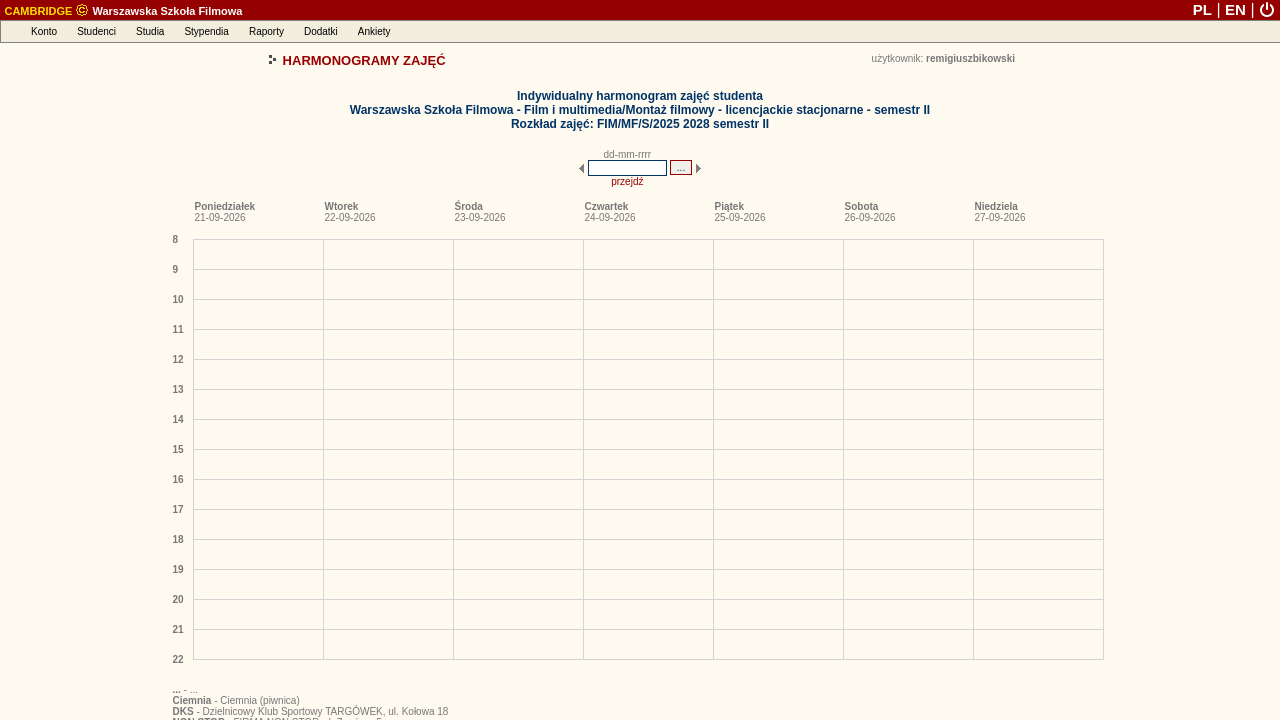
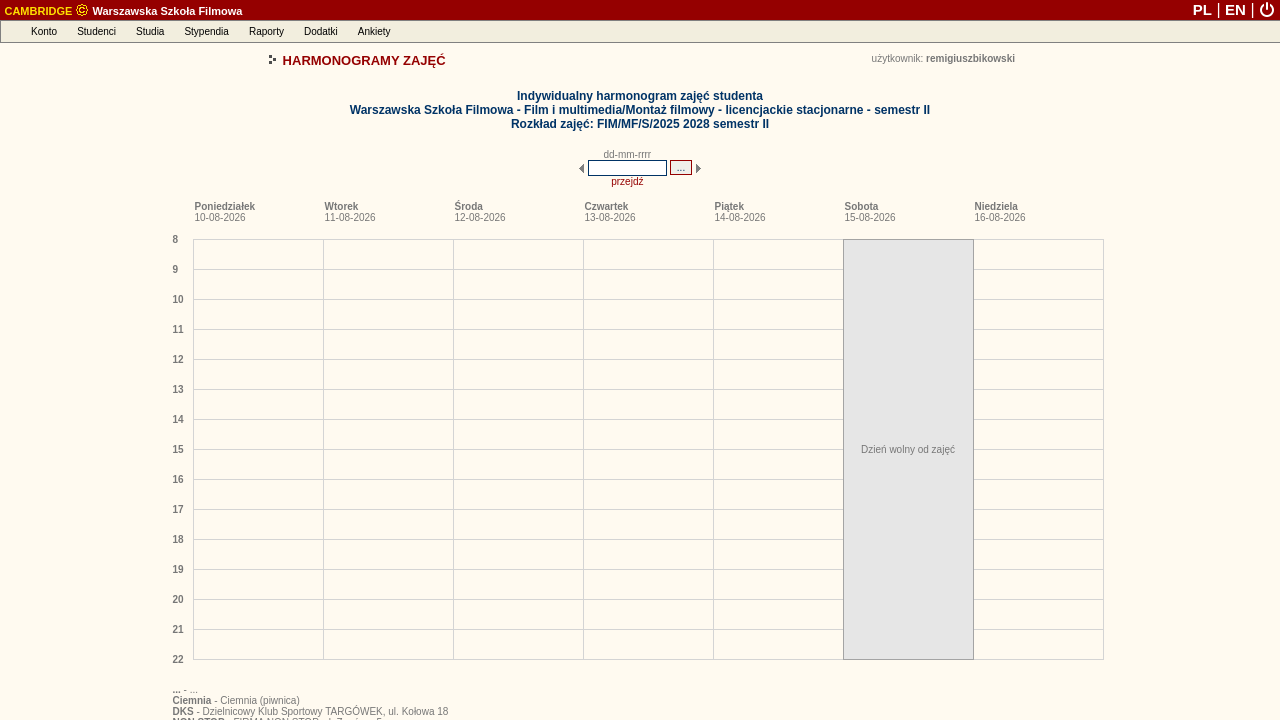
deploy: 0089a95886e71301e0455e70b701082a0dc46df1

Changed region(s): [[0.6562, 0.3056, 0.7812, 0.9167]]

diff --git a/debug_harmonogram_page.html b/debug_harmonogram_page.html
@@ -163,8 +163,8 @@
 
 
 
-<link rel="stylesheet" type="text/css" href="/palio/html.run?_Instance=cambridge&amp;_PageID=4&amp;_SessionID=1720694&amp;_SessionKey=319048724&amp;ZoomView=&amp;DisplayMode=&amp;_CheckSum=1847609785">
-<script language="javascript" type="text/javascript" src="/palio/html.run?_Instance=cambridge&amp;_PageID=5&amp;_SessionID=1720694&amp;_SessionKey=319048724&amp;_CheckSum=-1460360303"></script>
+<link rel="stylesheet" type="text/css" href="/palio/html.run?_Instance=cambridge&amp;_PageID=4&amp;_SessionID=1720800&amp;_SessionKey=1401491127&amp;ZoomView=&amp;DisplayMode=&amp;_CheckSum=-928589046">
+<script language="javascript" type="text/javascript" src="/palio/html.run?_Instance=cambridge&amp;_PageID=5&amp;_SessionID=1720800&amp;_SessionKey=1401491127&amp;_CheckSum=-1267184002"></script>
 
 
 
@@ -354,9 +354,9 @@ CambridgeMenuBar = new jsDOMenuBar("absolute", true)
 
 AccountMenu=new jsDOMenu(200, "", "absolute", false);
 
-AccountMenu.addMenuItem(new menuItem("Zmiana hasła", "", "/palio/html.run?_Instance=cambridge&amp;_PageID=11&amp;_SessionID=1720694&amp;_SessionKey=319048724&amp;_CheckSum=1237491712"));
+AccountMenu.addMenuItem(new menuItem("Zmiana hasła", "", "/palio/html.run?_Instance=cambridge&amp;_PageID=11&amp;_SessionID=1720800&amp;_SessionKey=1401491127&amp;_CheckSum=761849839"));
 
-  AccountMenu.addMenuItem(new menuItem("Komunikator", "", "/palio/html.run?_Instance=cambridge&amp;_PageID=180&amp;_SessionID=1720694&amp;_SessionKey=319048724&amp;_CheckSum=-1420874043"));
+  AccountMenu.addMenuItem(new menuItem("Komunikator", "", "/palio/html.run?_Instance=cambridge&amp;_PageID=180&amp;_SessionID=1720800&amp;_SessionKey=1401491127&amp;_CheckSum=-43109942"));
 
 
 
@@ -369,7 +369,7 @@ AccountMenu.addMenuItem(new menuItem("Yammer", "", "https://www.yammer.com/onlin
 
 AccountMenu.addMenuItem(new menuItem("-"));
 
-AccountMenu.addMenuItem(new menuItem("Wylogowanie", "", "https://student.szkolafilmowa.pl/palio/html.run?_Instance=cambridge&amp;_PageID=10012&amp;_Action=Logout&amp;_SessionID=1720694&amp;_SessionKey=319048724"));
+AccountMenu.addMenuItem(new menuItem("Wylogowanie", "", "https://student.szkolafilmowa.pl/palio/html.run?_Instance=cambridge&amp;_PageID=10012&amp;_Action=Logout&amp;_SessionID=1720800&amp;_SessionKey=1401491127"));
 
 CambridgeMenuBar.addMenuBarItem(new menuBarItem("Konto", AccountMenu));
 
@@ -382,12 +382,12 @@ StudentsMenu=new jsDOMenu(320, "", "absolute", false);
 
 
 
-StudentsMenu.addMenuItem(new menuItem("Moje dane", "", "/palio/html.run?_Instance=cambridge&amp;_PageID=185&amp;_SessionID=1720694&amp;_SessionKey=319048724&amp;_CheckSum=1731419082"));
+StudentsMenu.addMenuItem(new menuItem("Moje dane", "", "/palio/html.run?_Instance=cambridge&amp;_PageID=185&amp;_SessionID=1720800&amp;_SessionKey=1401491127&amp;_CheckSum=-1106270875"));
 
 
 
 
-StudentsMenu.addMenuItem(new menuItem("Moje indeksy", "", "/palio/html.run?_Instance=cambridge&amp;_PageID=186&amp;_SessionID=1720694&amp;_SessionKey=319048724&amp;_CheckSum=-1933089589"));
+StudentsMenu.addMenuItem(new menuItem("Moje indeksy", "", "/palio/html.run?_Instance=cambridge&amp;_PageID=186&amp;_SessionID=1720800&amp;_SessionKey=1401491127&amp;_CheckSum=1258077316"));
 
 
 
@@ -426,7 +426,7 @@ StudiesMenu=new jsDOMenu(250, "", "absolute", false);
 
 
 
-StudiesMenu.addMenuItem(new menuItem("Moje plany studiów", "", "/palio/html.run?_Instance=cambridge&amp;_PageID=258&amp;_SessionID=1720694&amp;_SessionKey=319048724&amp;_CheckSum=1105067569"));
+StudiesMenu.addMenuItem(new menuItem("Moje plany studiów", "", "/palio/html.run?_Instance=cambridge&amp;_PageID=258&amp;_SessionID=1720800&amp;_SessionKey=1401491127&amp;_CheckSum=951668702"));
 
 
 
@@ -434,13 +434,13 @@ StudiesMenu.addMenuItem(new menuItem("Moje plany studiów", "", "/palio/html.run
 
 
 
-StudiesMenu.addMenuItem(new menuItem("Harmonogramy zajęć", "", "/palio/html.run?_Instance=cambridge&amp;_PageID=95&amp;_SessionID=1720694&amp;_SessionKey=319048724&amp;_CheckSum=1199275260"));
+StudiesMenu.addMenuItem(new menuItem("Harmonogramy zajęć", "", "/palio/html.run?_Instance=cambridge&amp;_PageID=95&amp;_SessionID=1720800&amp;_SessionKey=1401491127&amp;_CheckSum=-422860173"));
 
-StudiesMenu.addMenuItem(new menuItem("Harmonogramy moich zajęć", "", "/palio/html.run?_Instance=cambridge&amp;_PageID=191&amp;_SessionID=1720694&amp;_SessionKey=319048724&amp;_CheckSum=1573932773"));
+StudiesMenu.addMenuItem(new menuItem("Harmonogramy moich zajęć", "", "/palio/html.run?_Instance=cambridge&amp;_PageID=191&amp;_SessionID=1720800&amp;_SessionKey=1401491127&amp;_CheckSum=-1693379158"));
 
-StudiesMenu.addMenuItem(new menuItem("Harmonogramy innych zajęć", "", "/palio/html.run?_Instance=cambridge&amp;_PageID=248&amp;_SessionID=1720694&amp;_SessionKey=319048724&amp;_CheckSum=-1259280622"));
+StudiesMenu.addMenuItem(new menuItem("Harmonogramy innych zajęć", "", "/palio/html.run?_Instance=cambridge&amp;_PageID=248&amp;_SessionID=1720800&amp;_SessionKey=1401491127&amp;_CheckSum=671318813"));
 
-StudiesMenu.addMenuItem(new menuItem("Harmonogramy zajętości sal", "", "/palio/html.run?_Instance=cambridge&amp;_PageID=269&amp;_SessionID=1720694&amp;_SessionKey=319048724&amp;_CheckSum=-195092911"));
+StudiesMenu.addMenuItem(new menuItem("Harmonogramy zajętości sal", "", "/palio/html.run?_Instance=cambridge&amp;_PageID=269&amp;_SessionID=1720800&amp;_SessionKey=1401491127&amp;_CheckSum=-698600514"));
 
 
 
@@ -470,9 +470,9 @@ CambridgeMenuBar.addMenuBarItem(new menuBarItem("Studia", StudiesMenu));
 ScholarshipsMenu=new jsDOMenu(230, "", "absolute", false);
 
 
-ScholarshipsMenu.addMenuItem(new menuItem("Moje stypendia", "", "/palio/html.run?_Instance=cambridge&amp;_PageID=187&amp;_SessionID=1720694&amp;_SessionKey=319048724&amp;_CheckSum=-1302630964"));
+ScholarshipsMenu.addMenuItem(new menuItem("Moje stypendia", "", "/palio/html.run?_Instance=cambridge&amp;_PageID=187&amp;_SessionID=1720800&amp;_SessionKey=1401491127&amp;_CheckSum=-672541789"));
 
-ScholarshipsMenu.addMenuItem(new menuItem("Mój numer rachunku", "", "/palio/html.run?_Instance=cambridge&amp;_PageID=380&amp;_SessionID=1720694&amp;_SessionKey=319048724&amp;_CheckSum=-860174265"));
+ScholarshipsMenu.addMenuItem(new menuItem("Mój numer rachunku", "", "/palio/html.run?_Instance=cambridge&amp;_PageID=380&amp;_SessionID=1720800&amp;_SessionKey=1401491127&amp;_CheckSum=158713992"));
 
 
 
@@ -482,9 +482,9 @@ ScholarshipsMenu.addMenuItem(new menuItem("Mój numer rachunku", "", "/palio/htm
 ScholarshipsMenu.addMenuItem(new menuItem("-"));
 
 
-ScholarshipsMenu.addMenuItem(new menuItem("Fundusze stypendialne", "", "/palio/html.run?_Instance=cambridge&amp;_PageID=54&amp;_SessionID=1720694&amp;_SessionKey=319048724&amp;_CheckSum=-298641537"));
+ScholarshipsMenu.addMenuItem(new menuItem("Fundusze stypendialne", "", "/palio/html.run?_Instance=cambridge&amp;_PageID=54&amp;_SessionID=1720800&amp;_SessionKey=1401491127&amp;_CheckSum=386359376"));
 
-ScholarshipsMenu.addMenuItem(new menuItem("Rodzaje stypendiów", "", "/palio/html.run?_Instance=cambridge&amp;_PageID=55&amp;_SessionID=1720694&amp;_SessionKey=319048724&amp;_CheckSum=331817088"));
+ScholarshipsMenu.addMenuItem(new menuItem("Rodzaje stypendiów", "", "/palio/html.run?_Instance=cambridge&amp;_PageID=55&amp;_SessionID=1720800&amp;_SessionKey=1401491127&amp;_CheckSum=-1544259729"));
 
 
 
@@ -495,7 +495,7 @@ CambridgeMenuBar.addMenuBarItem(new menuBarItem("Stypendia", ScholarshipsMenu));
 ReportsMenu=new jsDOMenu(200, "", "absolute", false);
 
 
-ReportsMenu.addMenuItem(new menuItem("Generowanie raportów", "", "/palio/html.run?_Instance=cambridge&amp;_PageID=68&amp;_SessionID=1720694&amp;_SessionKey=319048724&amp;_CheckSum=292573858"));
+ReportsMenu.addMenuItem(new menuItem("Generowanie raportów", "", "/palio/html.run?_Instance=cambridge&amp;_PageID=68&amp;_SessionID=1720800&amp;_SessionKey=1401491127&amp;_CheckSum=1534167437"));
 
 
 
@@ -505,7 +505,7 @@ CambridgeMenuBar.addMenuBarItem(new menuBarItem("Raporty", ReportsMenu));
 
 AdditionalsMenu=new jsDOMenu(200, "", "absolute", false);
 
-AdditionalsMenu.addMenuItem(new menuItem("Forum internetowe", "", "/palio/html.run?_Instance=cambridge&amp;_PageID=8001&amp;_SessionID=1720694&amp;_SessionKey=319048724&amp;_CheckSum=1792608601"));
+AdditionalsMenu.addMenuItem(new menuItem("Forum internetowe", "", "/palio/html.run?_Instance=cambridge&amp;_PageID=8001&amp;_SessionID=1720800&amp;_SessionKey=1401491127&amp;_CheckSum=790604214"));
 
 
 
@@ -539,7 +539,7 @@ PollsMenu=new jsDOMenu(225, "", "absolute", false);
 
 
 
-PollsMenu.addMenuItem(new menuItem("Wypełnianie ankiet", "", "/palio/html.run?_Instance=cambridge&amp;_PageID=227&amp;_SessionID=1720694&amp;_SessionKey=319048724&amp;_CheckSum=1971498963"));
+PollsMenu.addMenuItem(new menuItem("Wypełnianie ankiet", "", "/palio/html.run?_Instance=cambridge&amp;_PageID=227&amp;_SessionID=1720800&amp;_SessionKey=1401491127&amp;_CheckSum=2041238140"));
 
 
 CambridgeMenuBar.addMenuBarItem(new menuBarItem("Ankiety", PollsMenu));
@@ -576,7 +576,7 @@ CambridgeMenuBar.moveTo(0,20);
 <table width="100%" border="0" cellspacing="0" cellpadding="0" align="center">
 <tbody><tr class="top_belt">
 
-<td align="left" height="20"><b>&nbsp;<a class="belt" href="/palio/html.run?_Instance=cambridge&amp;_PageID=6&amp;_SessionID=1720694&amp;_SessionKey=319048724&amp;_CheckSum=-829901678"><span class="belt_application">CAMBRIDGE</span> <img src="/palio/html.media?_Instance=cambridge&amp;_Option=Palio&amp;_ID=51&amp;_CheckSum=684598873" width="14" height="14" border="0" style="position:relative;top:-2px;vertical-align:bottom"> Warszawska Szkoła Filmowa</a></b></td>
+<td align="left" height="20"><b>&nbsp;<a class="belt" href="/palio/html.run?_Instance=cambridge&amp;_PageID=6&amp;_SessionID=1720800&amp;_SessionKey=1401491127&amp;_CheckSum=1097164189"><span class="belt_application">CAMBRIDGE</span> <img src="/palio/html.media?_Instance=cambridge&amp;_Option=Palio&amp;_ID=51&amp;_CheckSum=684598873" width="14" height="14" border="0" style="position:relative;top:-2px;vertical-align:bottom"> Warszawska Szkoła Filmowa</a></b></td>
 <td align="right">
 
 
@@ -587,13 +587,13 @@ CambridgeMenuBar.moveTo(0,20);
 
 
 
-<a href="/palio/html.run?_Instance=cambridge&amp;_PageID=6&amp;_SessionID=1720694&amp;_SessionKey=319048724&amp;SetLanguage=pl&amp;_CheckSum=1677743176" class="belt" style="font-size:15px;line-height:18px;text-decoration:none" title="polski"><b>PL</b></a>
+<a href="/palio/html.run?_Instance=cambridge&amp;_PageID=6&amp;_SessionID=1720800&amp;_SessionKey=1401491127&amp;SetLanguage=pl&amp;_CheckSum=-992986787" class="belt" style="font-size:15px;line-height:18px;text-decoration:none" title="polski"><b>PL</b></a>
 <span class="belt" style="font-size:16px">|</span>
-<a href="/palio/html.run?_Instance=cambridge&amp;_PageID=6&amp;_SessionID=1720694&amp;_SessionKey=319048724&amp;SetLanguage=en&amp;_CheckSum=-724440837" class="belt" style="font-size:15px;line-height:18px;text-decoration:none" title="english"><b>EN</b></a>
+<a href="/palio/html.run?_Instance=cambridge&amp;_PageID=6&amp;_SessionID=1720800&amp;_SessionKey=1401491127&amp;SetLanguage=en&amp;_CheckSum=899796496" class="belt" style="font-size:15px;line-height:18px;text-decoration:none" title="english"><b>EN</b></a>
 <span class="belt" style="font-size:16px">|</span>
 
 
-<img src="/palio/html.media?_Instance=cambridge&amp;_Option=Palio&amp;_ID=94&amp;_CheckSum=-1316787974" style="cursor:pointer;vertical-align:bottom;margin-bottom:2px;margin-right:5px" alt="Wyloguj" title="Wyloguj" onclick="if(confirm('Czy na pewno chcesz się wylogować?'))window.location='https://student.szkolafilmowa.pl/palio/html.run?_Instance=cambridge&amp;_PageID=10012&amp;_Action=Logout&amp;_SessionID=1720694&amp;_SessionKey=319048724'">
+<img src="/palio/html.media?_Instance=cambridge&amp;_Option=Palio&amp;_ID=94&amp;_CheckSum=-1316787974" style="cursor:pointer;vertical-align:bottom;margin-bottom:2px;margin-right:5px" alt="Wyloguj" title="Wyloguj" onclick="if(confirm('Czy na pewno chcesz się wylogować?'))window.location='https://student.szkolafilmowa.pl/palio/html.run?_Instance=cambridge&amp;_PageID=10012&amp;_Action=Logout&amp;_SessionID=1720800&amp;_SessionKey=1401491127'">
 </td>
 
 </tr>
@@ -2153,16 +2153,16 @@ document.schedule_scroll_form.submit();
 }
 function goForward()
 {
-document.schedule_scroll_form._firstDayOfWeek.value = '28-09-2026';
+document.schedule_scroll_form._firstDayOfWeek.value = '17-08-2026';
 document.schedule_scroll_form.submit();
 }
 function goBackward()
 {
-document.schedule_scroll_form._firstDayOfWeek.value = '19-09-2026';
+document.schedule_scroll_form._firstDayOfWeek.value = '08-08-2026';
 document.schedule_scroll_form.submit();
 }
 </script>
-<form method="post" name="schedule_scroll_form" id="schedule_scroll_form" action="/palio/html.run?_Instance=cambridge&amp;_PageID=191&amp;_SessionID=1720694&amp;_SessionKey=319048724&amp;_RowID=7251&amp;_RowIDType=I&amp;_CheckSum=-1513339399" onsubmit="return checkFrm_schedule_scroll_form(this)">
+<form method="post" name="schedule_scroll_form" id="schedule_scroll_form" action="/palio/html.run?_Instance=cambridge&amp;_PageID=191&amp;_SessionID=1720800&amp;_SessionKey=1401491127&amp;_RowID=7251&amp;_RowIDType=I&amp;_CheckSum=-1414648876" onsubmit="return checkFrm_schedule_scroll_form(this)">
 <div style="display:none;"><input type="hidden" name="_formSubmitted" value="yes"></div>
 <input type="hidden" name="_firstDayOfWeek">
 <table cellspacing="0" cellpadding="0" border="0" align="center">
@@ -2938,6 +2938,22 @@ return true;
 
 
 
+
+
+
+
+
+
+
+
+
+
+
+
+
+
+
+
 <br>
 
 
@@ -2949,6 +2965,9 @@ return true;
 
 
 
+ 
+ 
+ 
 
 
 
@@ -3001,6 +3020,52 @@ return true;
 
 
 
+
+
+
+
+
+
+
+
+
+
+
+
+
+
+
+
+
+
+
+
+
+
+
+
+
+
+
+
+
+
+
+
+
+
+
+
+
+
+
+
+
+
+
+
+
+  
 
 
 
@@ -3459,7 +3524,7 @@ tipDivElement.style.visibility="hidden"
 <tbody><tr><td class="font">
 <b class="font">Poniedziałek</b><br>
 
-<span class="font">21-09-2026</span>
+<span class="font">10-08-2026</span>
 </td></tr>
 </tbody></table>
 </div>
@@ -3474,7 +3539,7 @@ tipDivElement.style.visibility="hidden"
 <tbody><tr><td class="font">
 <b class="font">Wtorek</b><br>
 
-<span class="font">22-09-2026</span>
+<span class="font">11-08-2026</span>
 </td></tr>
 </tbody></table>
 </div>
@@ -3489,7 +3554,7 @@ tipDivElement.style.visibility="hidden"
 <tbody><tr><td class="font">
 <b class="font">Środa</b><br>
 
-<span class="font">23-09-2026</span>
+<span class="font">12-08-2026</span>
 </td></tr>
 </tbody></table>
 </div>
@@ -3504,7 +3569,7 @@ tipDivElement.style.visibility="hidden"
 <tbody><tr><td class="font">
 <b class="font">Czwartek</b><br>
 
-<span class="font">24-09-2026</span>
+<span class="font">13-08-2026</span>
 </td></tr>
 </tbody></table>
 </div>
@@ -3519,7 +3584,7 @@ tipDivElement.style.visibility="hidden"
 <tbody><tr><td class="font">
 <b class="font">Piątek</b><br>
 
-<span class="font">25-09-2026</span>
+<span class="font">14-08-2026</span>
 </td></tr>
 </tbody></table>
 </div>
@@ -3534,7 +3599,7 @@ tipDivElement.style.visibility="hidden"
 <tbody><tr><td class="font">
 <b class="font">Sobota</b><br>
 
-<span class="font">26-09-2026</span>
+<span class="font">15-08-2026</span>
 </td></tr>
 </tbody></table>
 </div>
@@ -3549,7 +3614,7 @@ tipDivElement.style.visibility="hidden"
 <tbody><tr><td class="font">
 <b class="font">Niedziela</b><br>
 
-<span class="font">27-09-2026</span>
+<span class="font">16-08-2026</span>
 </td></tr>
 </tbody></table>
 </div>
@@ -3558,6 +3623,34 @@ tipDivElement.style.visibility="hidden"
 
 
 
+
+
+
+
+
+
+
+
+
+
+
+
+
+
+<div style="
+position:absolute;
+top:0;
+left:670;
+width:129;
+height:419.00;
+layer-background-color:#E6E6E6;
+background-color:#E6E6E6;
+border:1px solid #A4A4A4;
+z-index:0;">
+<table cellspacing="0" cellpadding="0" align="center" width="129">
+<tbody><tr><td width="129" align="center" class="font" valign="middle" height="419.00">Dzień wolny od zajęć</td></tr>
+</tbody></table>
+</div>
 
 
 </div>
@@ -3584,8 +3677,8 @@ tipDivElement.style.visibility="hidden"
 <td align="right">
 <table cellspacing="0" cellpadding="2" border="0">
 <tbody><tr>
-<td valign="middle"><a class="link" href="/palio/html.run?_Instance=cambridge&amp;_PageID=96&amp;_SessionID=1720694&amp;_SessionKey=319048724&amp;_RowID=7251&amp;_RowIDType=I&amp;_firstDayOfWeek=21-09-2026&amp;_CheckSum=-664761959" target="_blank">drukuj</a></td>
-<td valign="middle"><a class="link" href="/palio/html.run?_Instance=cambridge&amp;_PageID=96&amp;_SessionID=1720694&amp;_SessionKey=319048724&amp;_RowID=7251&amp;_RowIDType=I&amp;_firstDayOfWeek=21-09-2026&amp;_CheckSum=-664761959" target="_blank"><img src="/palio/html.media?_Instance=cambridge&amp;_Option=Palio&amp;_ID=26&amp;_CheckSum=1936112049" awidth="16" height="14" alt="drukuj" title="drukuj" border="0"></a></td>
+<td valign="middle"><a class="link" href="/palio/html.run?_Instance=cambridge&amp;_PageID=96&amp;_SessionID=1720800&amp;_SessionKey=1401491127&amp;_RowID=7251&amp;_RowIDType=I&amp;_firstDayOfWeek=10-08-2026&amp;_CheckSum=1466161869" target="_blank">drukuj</a></td>
+<td valign="middle"><a class="link" href="/palio/html.run?_Instance=cambridge&amp;_PageID=96&amp;_SessionID=1720800&amp;_SessionKey=1401491127&amp;_RowID=7251&amp;_RowIDType=I&amp;_firstDayOfWeek=10-08-2026&amp;_CheckSum=1466161869" target="_blank"><img src="/palio/html.media?_Instance=cambridge&amp;_Option=Palio&amp;_ID=26&amp;_CheckSum=1936112049" awidth="16" height="14" alt="drukuj" title="drukuj" border="0"></a></td>
 </tr>
 </tbody></table>
 </td>
@@ -3617,7 +3710,7 @@ tipDivElement.style.visibility="hidden"
 
 
 
-<input type="button" name="jump_action" value="Powrót do listy harmonogramów zajęć" class="button" onclick="window.location='/palio/html.run?_Instance=cambridge&amp;_PageID=191&amp;_SessionID=1720694&amp;_SessionKey=319048724&amp;_CheckSum=1573932773'">
+<input type="button" name="jump_action" value="Powrót do listy harmonogramów zajęć" class="button" onclick="window.location='/palio/html.run?_Instance=cambridge&amp;_PageID=191&amp;_SessionID=1720800&amp;_SessionKey=1401491127&amp;_CheckSum=-1693379158'">
 
 
 
@@ -3642,7 +3735,7 @@ tipDivElement.style.visibility="hidden"
 grayscaleImagesIE10Plus();
 </script>
 
-<p align="right" class="font"><i style="color:#aaaaaa">Czas generowania strony 86 ms</i></p>
+<p align="right" class="font"><i style="color:#aaaaaa">Czas generowania strony 4359 ms</i></p>
 
 
 </body></html>
